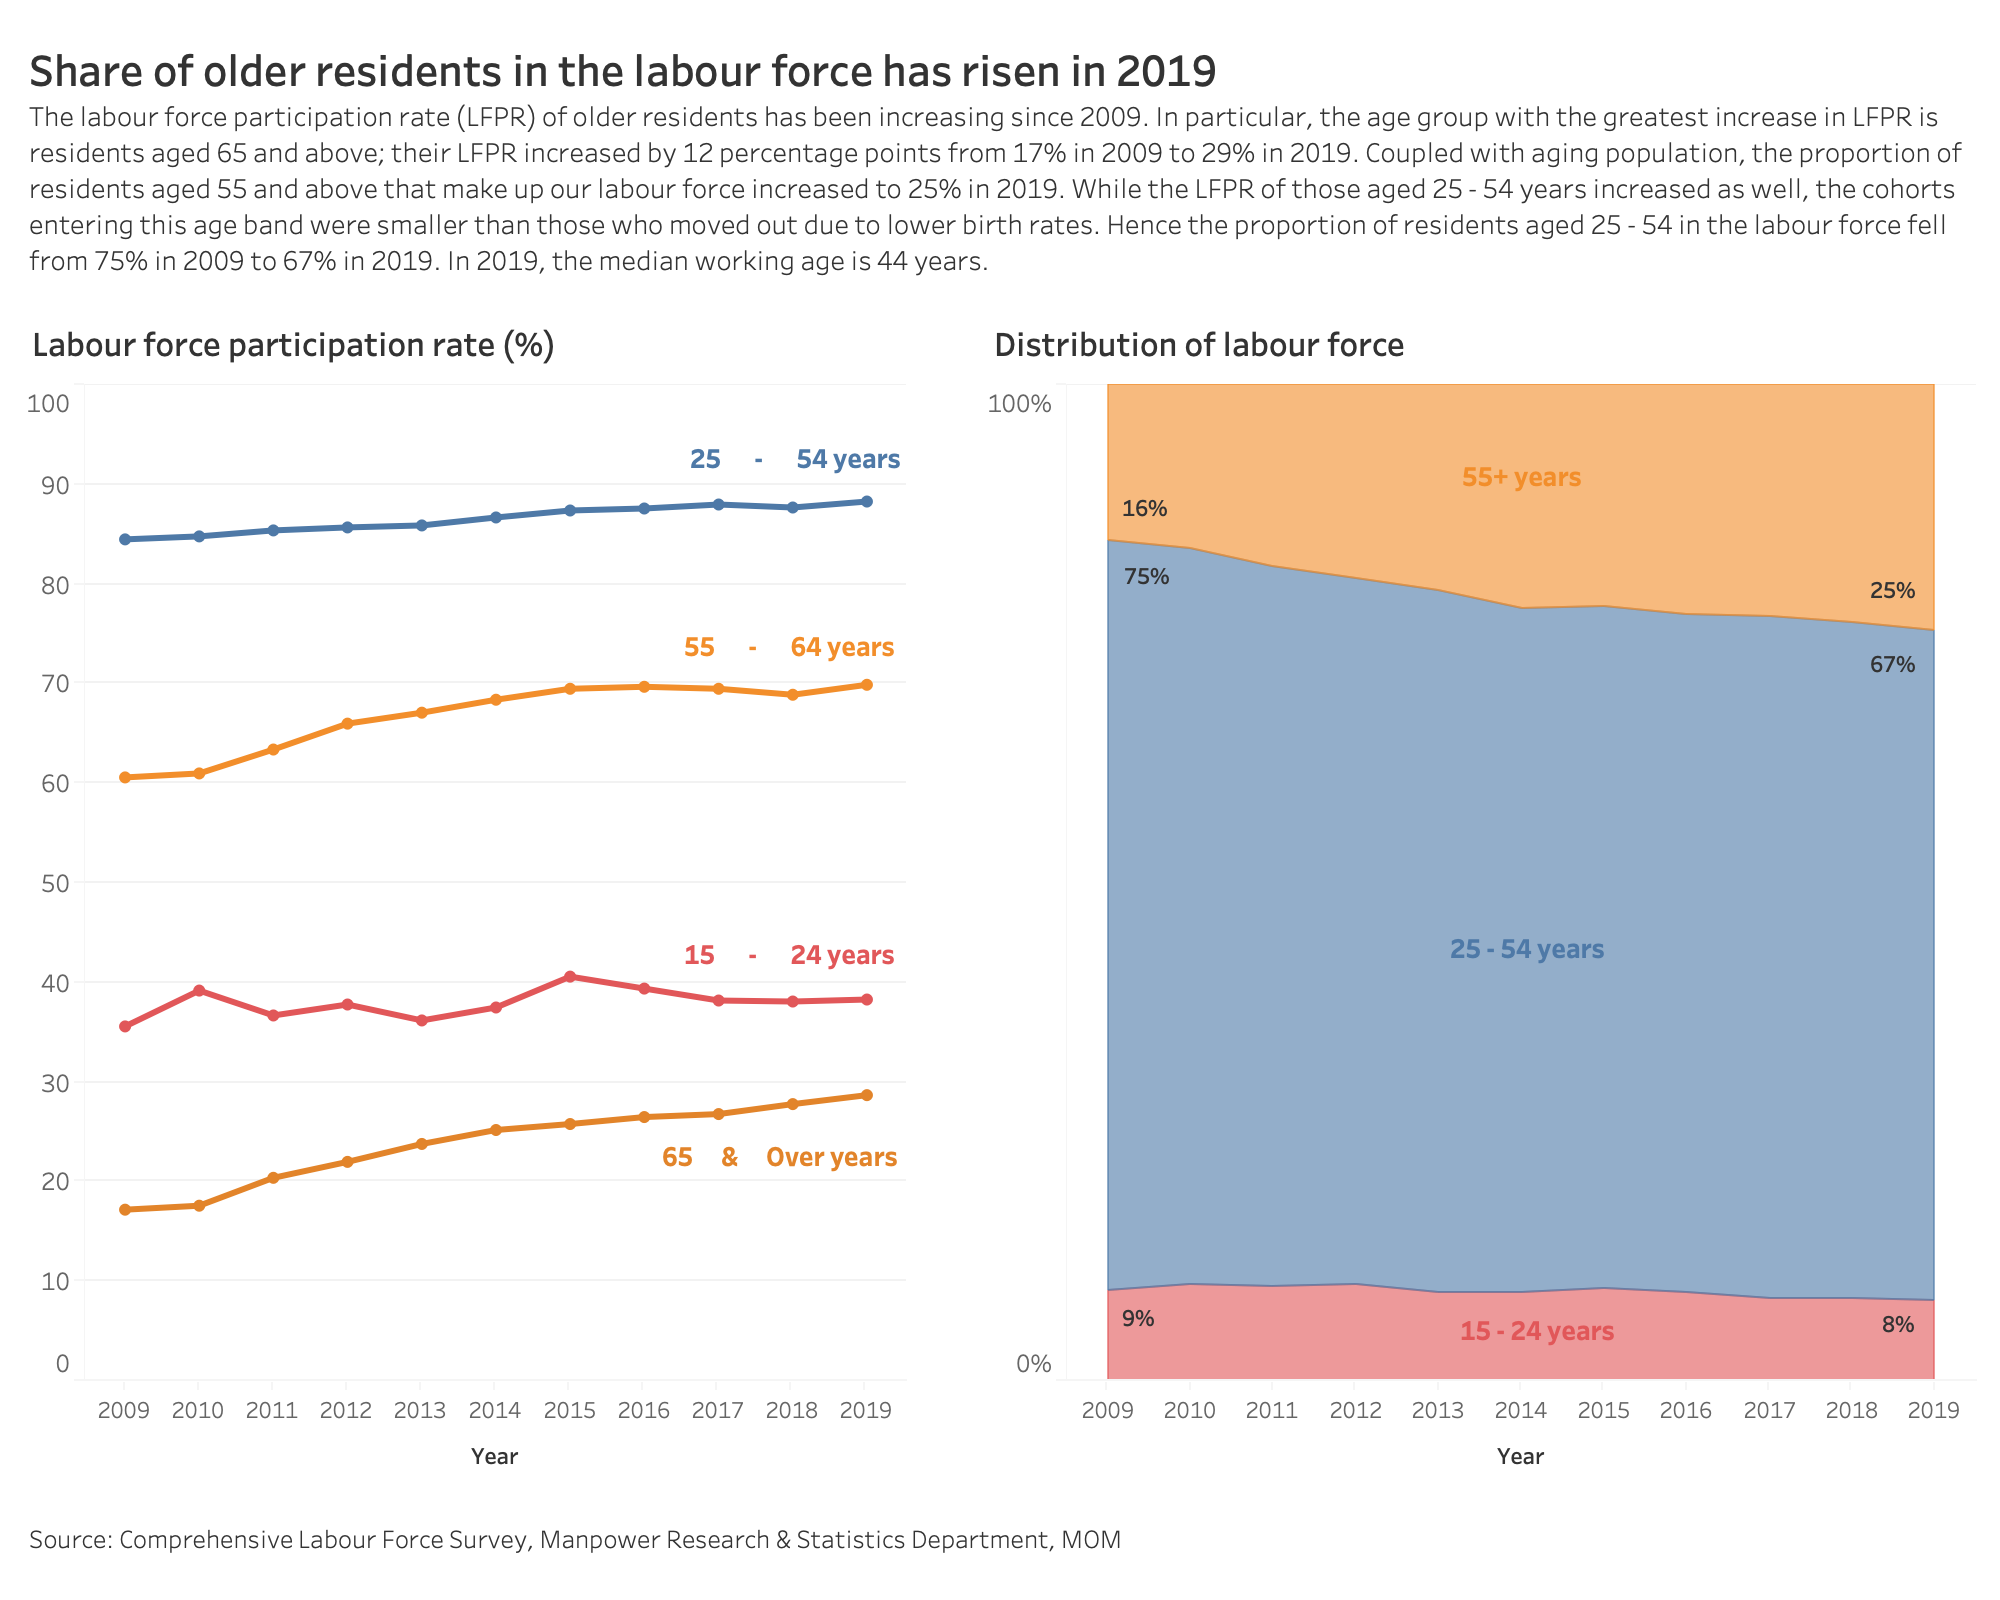
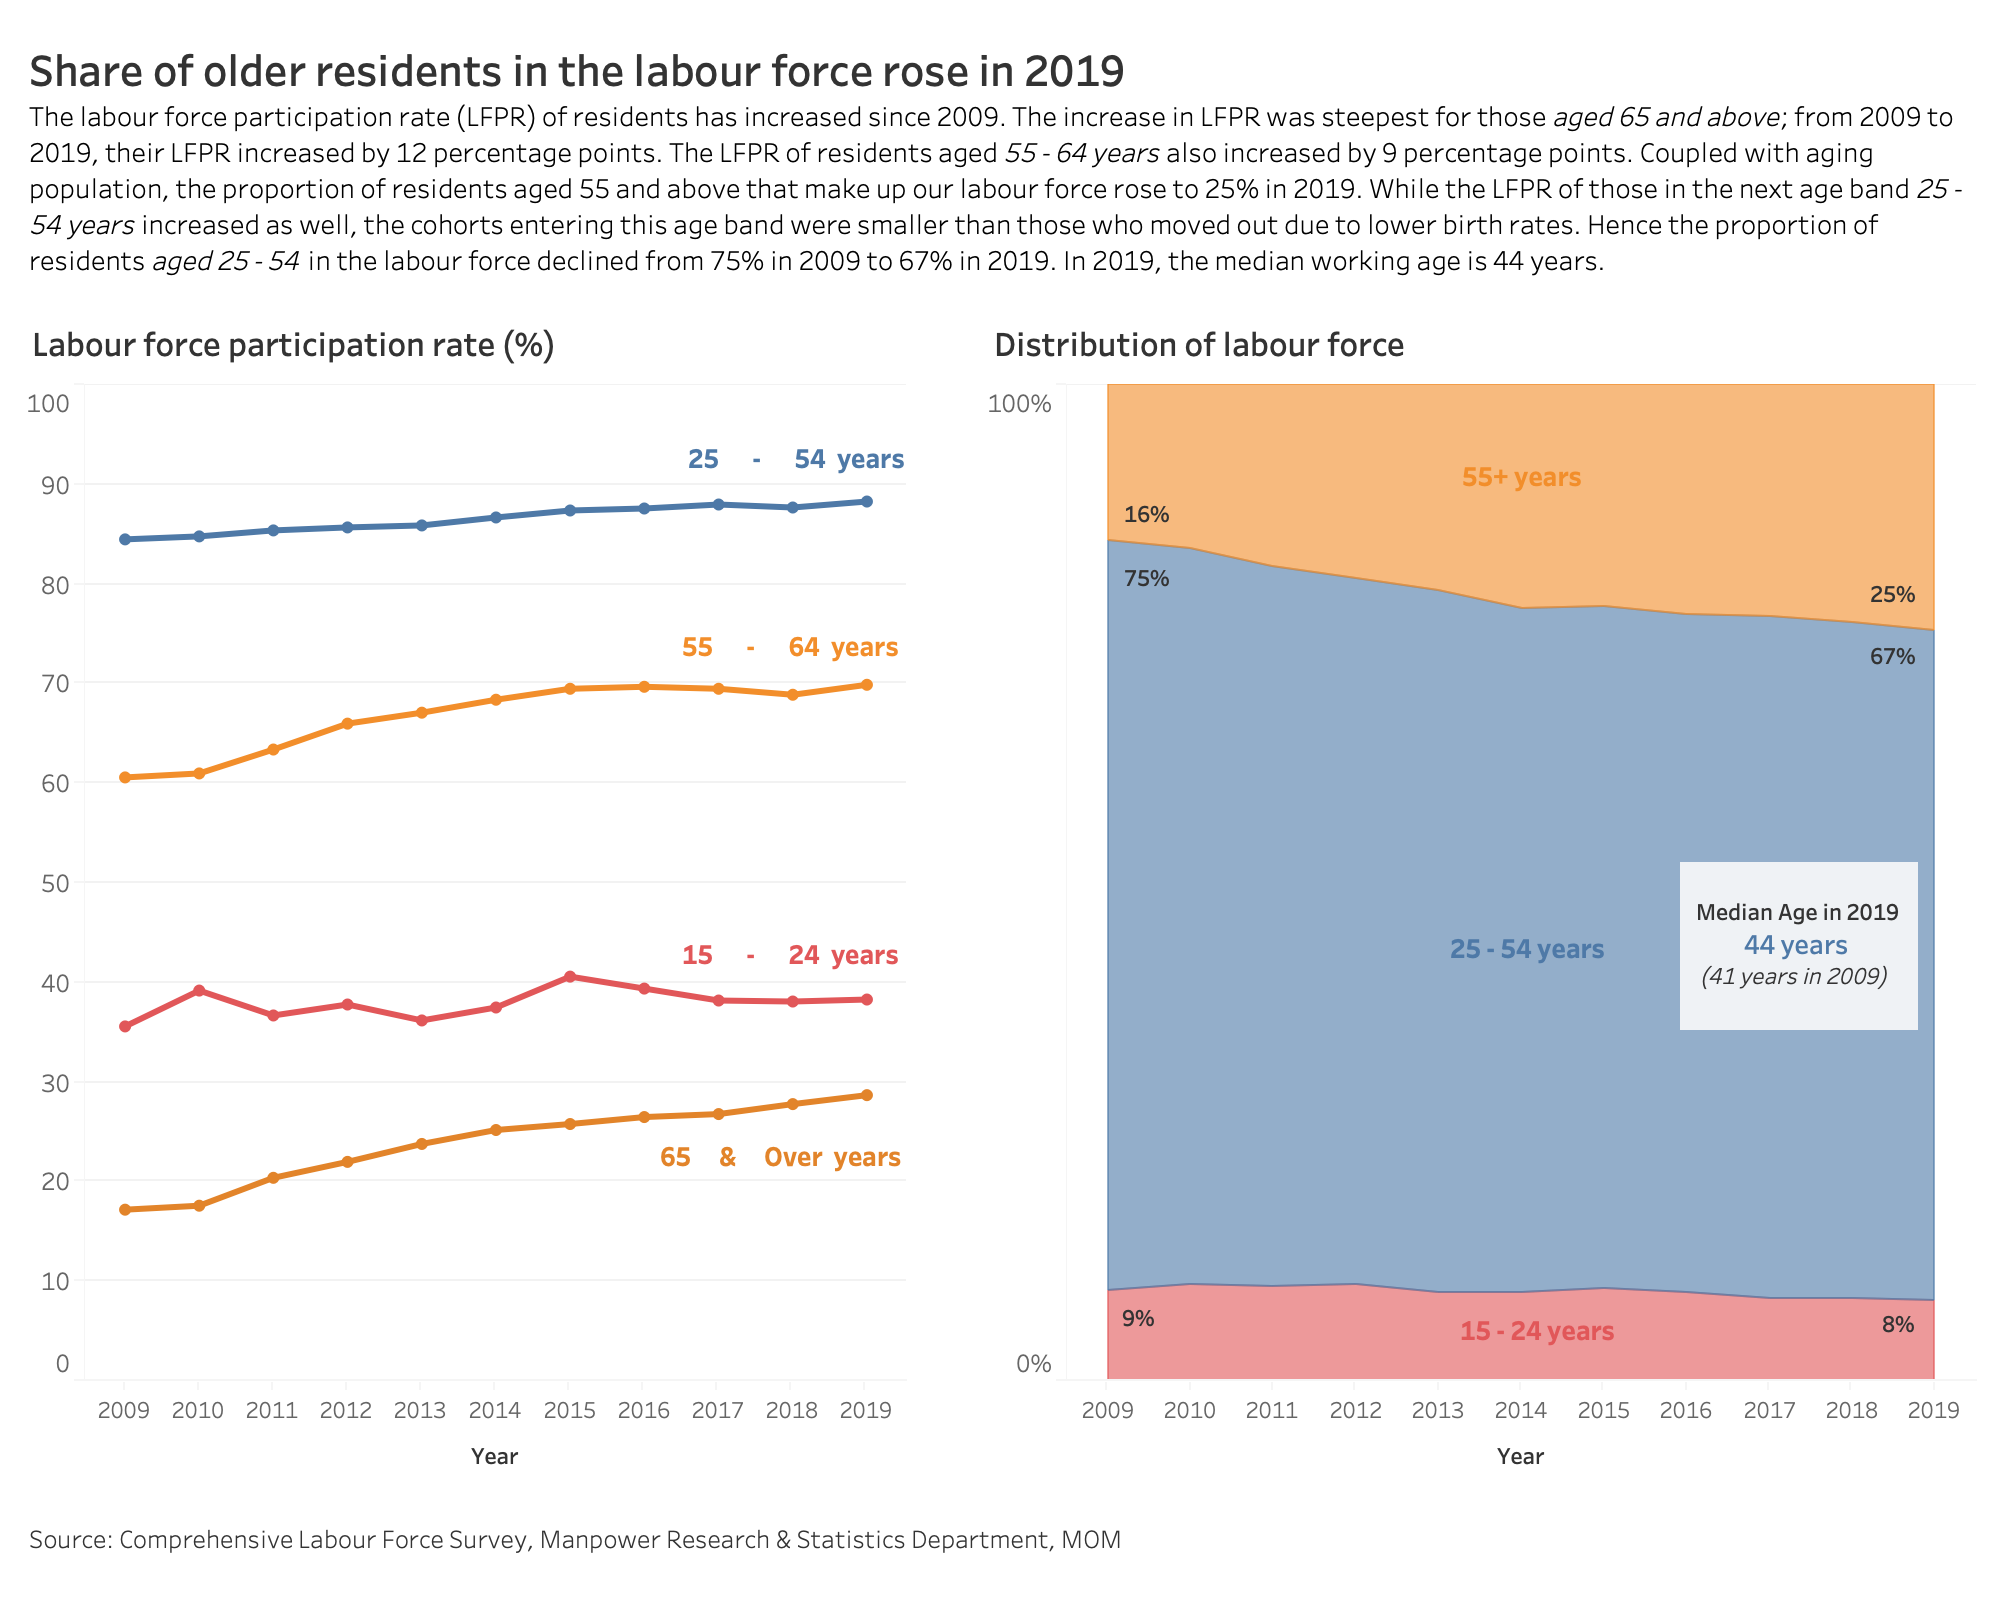
updated description

diff --git a/_posts/2021-01-25-dataviz-makeover-1/dataviz-makeover-1.html b/_posts/2021-01-25-dataviz-makeover-1/dataviz-makeover-1.html
@@ -115,7 +115,7 @@ code span.wa { color: #5e5e5e; font-style: italic; } /* Warning */
   <!--/radix_placeholder_rmarkdown_metadata-->
   
   <script type="text/json" id="radix-resource-manifest">
-  {"type":"character","attributes":{},"value":["dataviz-makeover-1_files/anchor-4.2.2/anchor.min.js","dataviz-makeover-1_files/bowser-1.9.3/bowser.min.js","dataviz-makeover-1_files/distill-2.2.21/template.v2.js","dataviz-makeover-1_files/header-attrs-2.6.6/header-attrs.js","dataviz-makeover-1_files/jquery-1.11.3/jquery.min.js","dataviz-makeover-1_files/popper-2.6.0/popper.min.js","dataviz-makeover-1_files/tippy-6.2.7/tippy-bundle.umd.min.js","dataviz-makeover-1_files/tippy-6.2.7/tippy-light-border.css","dataviz-makeover-1_files/tippy-6.2.7/tippy.css","dataviz-makeover-1_files/tippy-6.2.7/tippy.umd.min.js","dataviz-makeover-1_files/webcomponents-2.0.0/webcomponents.js"]}
+  {"type":"character","attributes":{},"value":["dataviz-makeover-1_files/anchor-4.2.2/anchor.min.js","dataviz-makeover-1_files/bowser-1.9.3/bowser.min.js","dataviz-makeover-1_files/distill-2.2.21/template.v2.js","dataviz-makeover-1_files/header-attrs-2.6.6/header-attrs.js","dataviz-makeover-1_files/jquery-1.11.3/jquery.min.js","dataviz-makeover-1_files/popper-2.6.0/popper.min.js","dataviz-makeover-1_files/tippy-6.2.7/tippy-bundle.umd.min.js","dataviz-makeover-1_files/tippy-6.2.7/tippy-light-border.css","dataviz-makeover-1_files/tippy-6.2.7/tippy.css","dataviz-makeover-1_files/tippy-6.2.7/tippy.umd.min.js","dataviz-makeover-1_files/webcomponents-2.0.0/webcomponents.js","images/07.11 statement color.png","images/999.png"]}
   </script>
   <!--radix_placeholder_navigation_in_header-->
   <!--/radix_placeholder_navigation_in_header-->
@@ -1668,11 +1668,11 @@ code span.wa { color: #5e5e5e; font-style: italic; } /* Warning */
 <ul>
 <li><p>Title: <strong>Tableau Light, 16, bold</strong></p>
 <blockquote>
-<p>Share of older residents in the labour force has risen in 2019</p>
+<p>Share of older residents in the labour force rose in 2019</p>
 </blockquote></li>
 <li><p>Description: <strong>Tableau Light, 10</strong>, <em>not bold</em></p>
 <blockquote>
-<p>The labour force participation rate (LFPR) of older residents has been increasing since 2009. In particular, the age group with the greatest increase in LFPR is residents aged 65 and above; their LFPR increased by 12 percentage points from 17% in 2009 to 29% in 2019. Coupled with aging population, the proportion of residents aged 55 and above that make up our labour force increased to 25% in 2019. While the LFPR of those aged 25 - 54 years increased as well, the cohorts entering this age band were smaller than those who moved out due to lower birth rates. Hence the proportion of residents aged 25 - 54 in the labour force fell from 75% in 2009 to 67% in 2019. In 2019, the median working age is 44 years.</p>
+<p>The labour force participation rate (LFPR) of residents has increased since 2009. The increase in LFPR was steepest for those <em>aged 65 and above</em>; from 2009 to 2019, their LFPR increased by 12 percentage points. The LFPR of residents aged <em>55 - 64 years</em> also increased by 9 percentage points. Coupled with aging population, the proportion of residents aged 55 and above that make up our labour force rose to 25% in 2019. While the LFPR of those in the next age band <em>25 - 54 years</em> increased as well, the cohorts entering this age band were smaller than those who moved out due to lower birth rates. Hence the proportion of residents <em>aged 25 - 54</em> in the labour force declined from 75% in 2009 to 67% in 2019. In 2019, the median working age is 44 years.</p>
 </blockquote></li>
 <li><p>For both <em>Title</em> and <em>Description</em>, font color (as shown below) is the same.</p>
 <p><img src="images/07.11%20statement%20color.png" style="width:45.0%" /></p></li>
@@ -1685,12 +1685,12 @@ code span.wa { color: #5e5e5e; font-style: italic; } /* Warning */
 </blockquote></li>
 <li><p>Resize each pane. Reposition marker annotations and data labels accordingly. The final dashboard is shown below.</p></li>
 </ol>
-<p><img src="images/999-03.png" style="width:100.0%" /></p>
+<p><img src="images/999.png" style="width:100.0%" /></p>
 <h1 id="e.-three-major-observations">E. Three Major Observations</h1>
 <ol type="1">
-<li>Labour force participation rate of residents <em>aged 65 &amp; over</em> years has increased the most, compared to other age groups, from 2009 to 2019. 29% in 2019 is also the highest in ten years.</li>
-<li>Proportion of labour force <em>aged 55 and above</em> is increasing every year from 2009 to 2019 (except 2014 to 2015 where the proportion remained the same). This suggests an aging workforce in Singapore.</li>
-<li>The labour force participation rate of residents <em>aged 15 - 24 years</em> was highest in 2015.</li>
+<li>Labour force participation rate of residents (LFPR) <em>aged 65 &amp; over years</em> has increased the most, compared to other age groups, from 2009 to 2019. Their LFPR of 29% in 2019 is also the highest in ten years.</li>
+<li>Proportion of labour force <em>aged 55 and above</em> has increased by from 2009 to 2019. This suggests an aging workforce in Singapore.</li>
+<li>Despite the labour force participation rate for residents <em>aged 25 - 54 years</em> increasing over the past ten years, their proportion in our labour force has declined from 75% in 2009 to 67% in 2019.</li>
 </ol>
 <p>Aside from an aging resident labour force, a greater proportion of elderly are continuing to work past the age of 65 years old and not retire earlier, despite Singapore having the Central Provident Fund (CPF) scheme.</p>
 <div class="sourceCode" id="cb1"><pre class="sourceCode r distill-force-highlighting-css"><code class="sourceCode r"></code></pre></div>

diff --git a/_site/posts/2021-01-25-dataviz-makeover-1/index.html b/_site/posts/2021-01-25-dataviz-makeover-1/index.html
@@ -116,7 +116,7 @@ code span.wa { color: #5e5e5e; font-style: italic; } /* Warning */
 <!--/radix_placeholder_rmarkdown_metadata-->
   
   <script type="text/json" id="radix-resource-manifest">
-  {"type":"character","attributes":{},"value":["dataviz-makeover-1_files/anchor-4.2.2/anchor.min.js","dataviz-makeover-1_files/bowser-1.9.3/bowser.min.js","dataviz-makeover-1_files/distill-2.2.21/template.v2.js","dataviz-makeover-1_files/header-attrs-2.6.6/header-attrs.js","dataviz-makeover-1_files/jquery-1.11.3/jquery.min.js","dataviz-makeover-1_files/popper-2.6.0/popper.min.js","dataviz-makeover-1_files/tippy-6.2.7/tippy-bundle.umd.min.js","dataviz-makeover-1_files/tippy-6.2.7/tippy-light-border.css","dataviz-makeover-1_files/tippy-6.2.7/tippy.css","dataviz-makeover-1_files/tippy-6.2.7/tippy.umd.min.js","dataviz-makeover-1_files/webcomponents-2.0.0/webcomponents.js"]}
+  {"type":"character","attributes":{},"value":["dataviz-makeover-1_files/anchor-4.2.2/anchor.min.js","dataviz-makeover-1_files/bowser-1.9.3/bowser.min.js","dataviz-makeover-1_files/distill-2.2.21/template.v2.js","dataviz-makeover-1_files/header-attrs-2.6.6/header-attrs.js","dataviz-makeover-1_files/jquery-1.11.3/jquery.min.js","dataviz-makeover-1_files/popper-2.6.0/popper.min.js","dataviz-makeover-1_files/tippy-6.2.7/tippy-bundle.umd.min.js","dataviz-makeover-1_files/tippy-6.2.7/tippy-light-border.css","dataviz-makeover-1_files/tippy-6.2.7/tippy.css","dataviz-makeover-1_files/tippy-6.2.7/tippy.umd.min.js","dataviz-makeover-1_files/webcomponents-2.0.0/webcomponents.js","images/07.11 statement color.png","images/999.png"]}
   </script>
   <!--radix_placeholder_navigation_in_header-->
 <meta name="distill:offset" content="../.."/>
@@ -2290,11 +2290,11 @@ document.addEventListener('DOMContentLoaded', function() {
 <ul>
 <li><p>Title: <strong>Tableau Light, 16, bold</strong></p>
 <blockquote>
-<p>Share of older residents in the labour force has risen in 2019</p>
+<p>Share of older residents in the labour force rose in 2019</p>
 </blockquote></li>
 <li><p>Description: <strong>Tableau Light, 10</strong>, <em>not bold</em></p>
 <blockquote>
-<p>The labour force participation rate (LFPR) of older residents has been increasing since 2009. In particular, the age group with the greatest increase in LFPR is residents aged 65 and above; their LFPR increased by 12 percentage points from 17% in 2009 to 29% in 2019. Coupled with aging population, the proportion of residents aged 55 and above that make up our labour force increased to 25% in 2019. While the LFPR of those aged 25 - 54 years increased as well, the cohorts entering this age band were smaller than those who moved out due to lower birth rates. Hence the proportion of residents aged 25 - 54 in the labour force fell from 75% in 2009 to 67% in 2019. In 2019, the median working age is 44 years.</p>
+<p>The labour force participation rate (LFPR) of residents has increased since 2009. The increase in LFPR was steepest for those <em>aged 65 and above</em>; from 2009 to 2019, their LFPR increased by 12 percentage points. The LFPR of residents aged <em>55 - 64 years</em> also increased by 9 percentage points. Coupled with aging population, the proportion of residents aged 55 and above that make up our labour force rose to 25% in 2019. While the LFPR of those in the next age band <em>25 - 54 years</em> increased as well, the cohorts entering this age band were smaller than those who moved out due to lower birth rates. Hence the proportion of residents <em>aged 25 - 54</em> in the labour force declined from 75% in 2009 to 67% in 2019. In 2019, the median working age is 44 years.</p>
 </blockquote></li>
 <li><p>For both <em>Title</em> and <em>Description</em>, font color (as shown below) is the same.</p>
 <p><img src="images/07.11%20statement%20color.png" style="width:45.0%" /></p></li>
@@ -2307,12 +2307,12 @@ document.addEventListener('DOMContentLoaded', function() {
 </blockquote></li>
 <li><p>Resize each pane. Reposition marker annotations and data labels accordingly. The final dashboard is shown below.</p></li>
 </ol>
-<p><img src="images/999-03.png" style="width:100.0%" /></p>
+<p><img src="images/999.png" style="width:100.0%" /></p>
 <h1 id="e.-three-major-observations">E. Three Major Observations</h1>
 <ol type="1">
-<li>Labour force participation rate of residents <em>aged 65 &amp; over</em> years has increased the most, compared to other age groups, from 2009 to 2019. 29% in 2019 is also the highest in ten years.</li>
-<li>Proportion of labour force <em>aged 55 and above</em> is increasing every year from 2009 to 2019 (except 2014 to 2015 where the proportion remained the same). This suggests an aging workforce in Singapore.</li>
-<li>The labour force participation rate of residents <em>aged 15 - 24 years</em> was highest in 2015.</li>
+<li>Labour force participation rate of residents (LFPR) <em>aged 65 &amp; over years</em> has increased the most, compared to other age groups, from 2009 to 2019. Their LFPR of 29% in 2019 is also the highest in ten years.</li>
+<li>Proportion of labour force <em>aged 55 and above</em> has increased by from 2009 to 2019. This suggests an aging workforce in Singapore.</li>
+<li>Despite the labour force participation rate for residents <em>aged 25 - 54 years</em> increasing over the past ten years, their proportion in our labour force has declined from 75% in 2009 to 67% in 2019.</li>
 </ol>
 <p>Aside from an aging resident labour force, a greater proportion of elderly are continuing to work past the age of 65 years old and not retire earlier, despite Singapore having the Central Provident Fund (CPF) scheme.</p>
 <div class="sourceCode" id="cb1"><pre class="sourceCode r distill-force-highlighting-css"><code class="sourceCode r"></code></pre></div>
